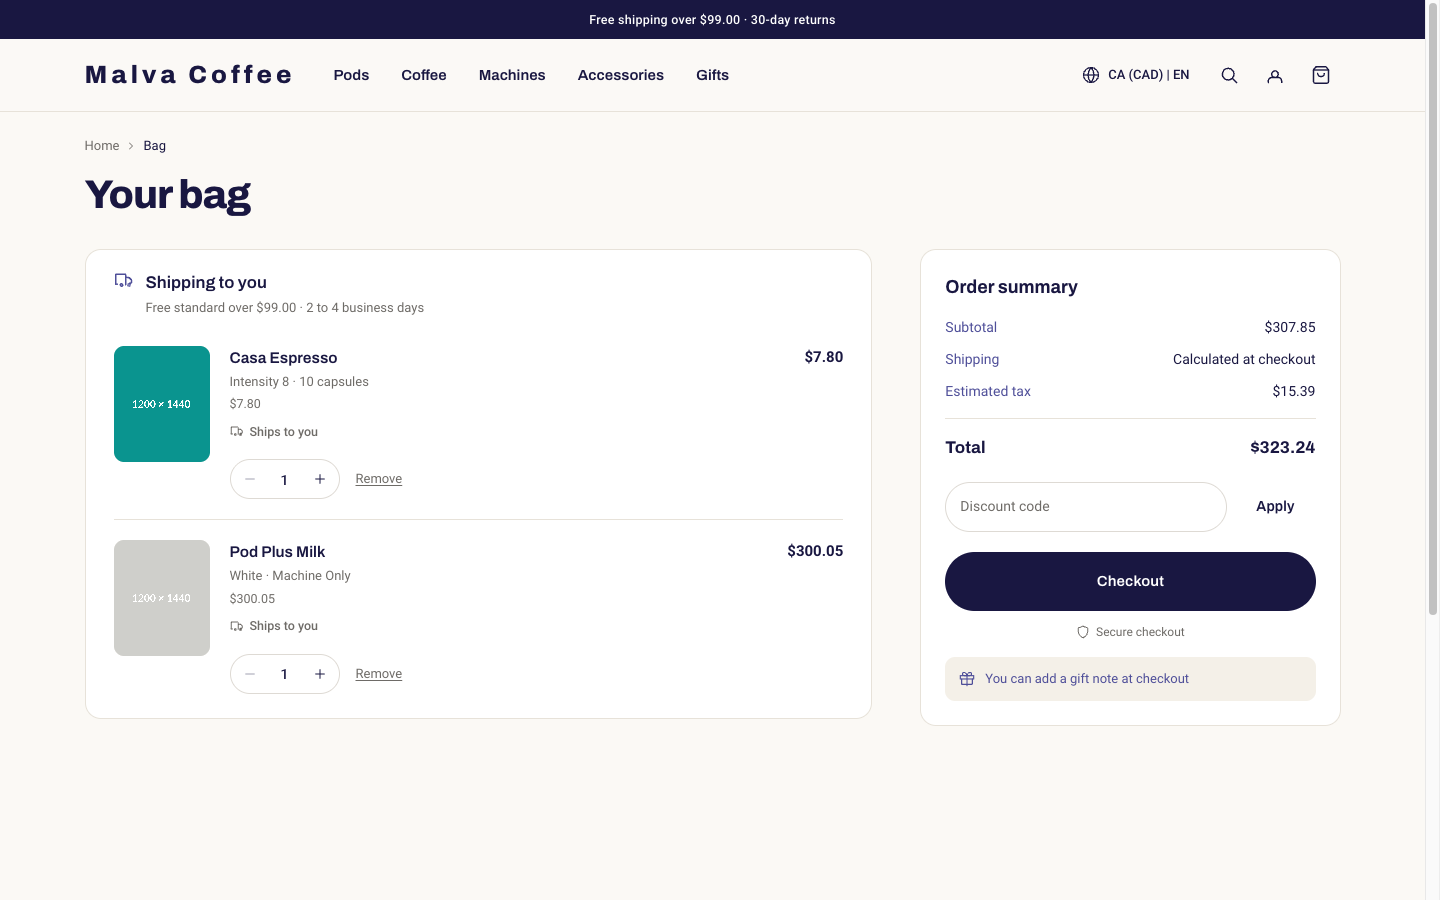
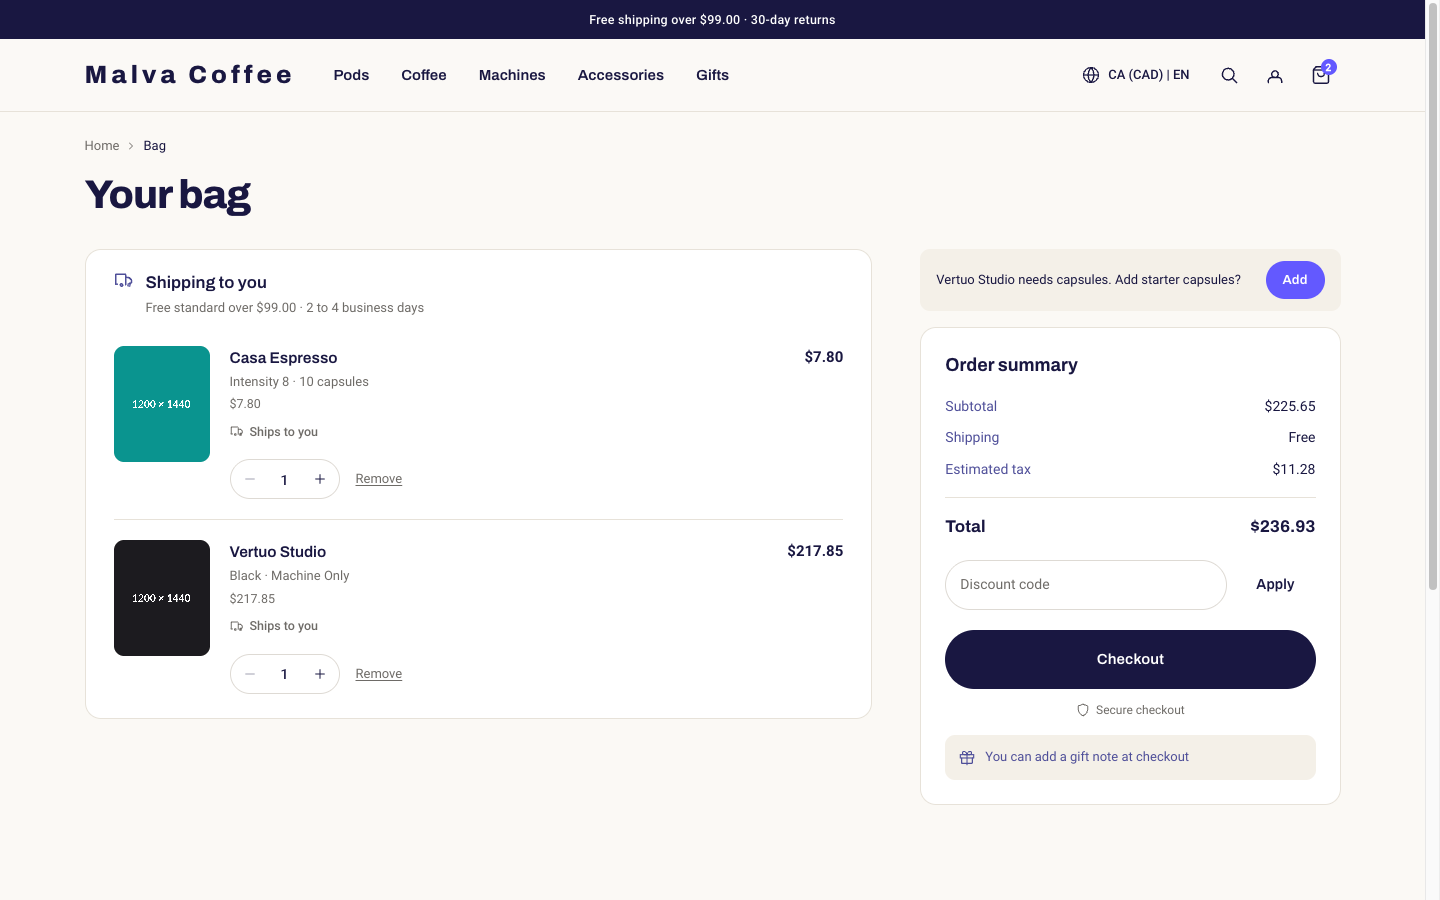
ws-q: fix the proxy only moves the session to the URL market on a page load (Next strips its prefetch headers before the proxy, so Sec-Fetch-Dest decides); J6 bag survives a market switch

diff --git a/b2c-foodservice/storefront/proxy.ts b/b2c-foodservice/storefront/proxy.ts
@@ -6,13 +6,18 @@ const LOCALES = Object.keys(COUNTRY_CONFIG);
 const LOCALE_HEADER = 'x-next-intl-locale';
 
 /**
- * A prefetch (next/link in the viewport, or the browser) must have no side effect. Without this a market switch with a bag
- * lost the bag: links of the old market in the page were prefetched after the switch, and the answer to that prefetch
- * moved the session back to the old market and dropped the cart (found by Q in journey J6).
+ * Only a page load may move the session to the market of the URL. A background fetch (next/link prefetch, soft navigation)
+ * must have no side effect: without this a market switch with a bag lost the bag, because links of the old market in the page
+ * were prefetched after the switch and the answer to that prefetch moved the session back and dropped the cart (found by Q
+ * in journey J6). Next removes its own prefetch headers before the proxy runs, so the proxy reads what the browser sends:
+ * `Sec-Fetch-Dest` is `document` for a page load and `empty` for a fetch. A client that sends neither (curl, an old browser)
+ * keeps the old behaviour.
  */
-function isPrefetch(request: NextRequest): boolean {
+function mayWriteCookies(request: NextRequest): boolean {
   const h = request.headers;
-  return h.get('next-router-prefetch') === '1' || /prefetch/i.test(h.get('sec-purpose') ?? '') || h.get('purpose') === 'prefetch';
+  if (/prefetch/i.test(h.get('sec-purpose') ?? '') || h.get('purpose') === 'prefetch') return false;
+  const dest = h.get('sec-fetch-dest');
+  return dest === null || dest === 'document' || dest === 'iframe';
 }
 // A first path segment shaped like a locale, for example fr-FR or de.
 const LOCALE_SHAPE = /^[a-z]{2}(-[A-Z]{2})?$/;
@@ -46,8 +51,8 @@ export async function proxy(request: NextRequest) {
     headers.set(LOCALE_HEADER, first);
     const response = NextResponse.next({ request: { headers } });
     response.headers.set(LOCALE_HEADER, first);
-    // The render of a prefetch still sees the URL market through the request cookies above; only a real visit writes them.
-    for (const c of isPrefetch(request) ? [] : (reconciled?.cookies ?? [])) {
+    // The render of a background fetch still sees the URL market through the request cookies above; only a page load writes them.
+    for (const c of mayWriteCookies(request) ? (reconciled?.cookies ?? []) : []) {
       response.cookies.set(c.name, c.value, {
         httpOnly: true,
         sameSite: 'lax',

diff --git a/b2c-foodservice/storefront/lib/session-reconcile.test.ts b/b2c-foodservice/storefront/lib/session-reconcile.test.ts
@@ -61,18 +61,21 @@ describe('URL market is the source of truth (FIX-2)', () => {
     expect(forwarded).not.toContain(token);
   });
 
-  it('a prefetch of a page in the other market never sets a cookie (a market switch with a bag lost the bag to a stale prefetch)', async () => {
+  it('a prefetch or other background fetch of a page in the other market never sets a cookie (a market switch with a bag lost the bag to a stale prefetch)', async () => {
     const token = await createSessionToken({ ...CA, cartId: 'cart-2', anonymousId: 'a1' });
     const cookie = `malva-session=${token}; malva-locale=en-CA`;
-    for (const headers of [{ 'next-router-prefetch': '1' }, { 'sec-purpose': 'prefetch' }, { purpose: 'prefetch' }] as Record<string, string>[]) {
+    // Next removes its own prefetch headers before the proxy runs: what remains is what the browser sends (a fetch is dest `empty`).
+    for (const headers of [{ 'sec-fetch-dest': 'empty' }, { 'sec-purpose': 'prefetch' }, { purpose: 'prefetch' }] as Record<string, string>[]) {
       const request = new NextRequest('http://localhost/en-US/p/casa-espresso/MCF-POD-CASA-10?_rsc=x', { headers: { cookie, ...headers } });
       const res = await proxy(request);
       expect(res.headers.get('set-cookie')).toBeNull();
       // the page still renders in the URL market, from the request cookies
       expect(res.headers.get('x-middleware-request-cookie') ?? '').toContain('malva-locale=en-US');
     }
-    // a real visit to the same URL still moves the session
-    const visit = await proxy(new NextRequest('http://localhost/en-US/cart', { headers: { cookie } }));
-    expect(visit.headers.get('set-cookie')).toContain('malva-session=');
+    // a page load of the same URL still moves the session (document, or a client that sends no Sec-Fetch-Dest)
+    for (const extra of [{ 'sec-fetch-dest': 'document' }, {}] as Record<string, string>[]) {
+      const visit = await proxy(new NextRequest('http://localhost/en-US/cart', { headers: { cookie, ...extra } }));
+      expect(visit.headers.get('set-cookie')).toContain('malva-session=');
+    }
   });
 });
